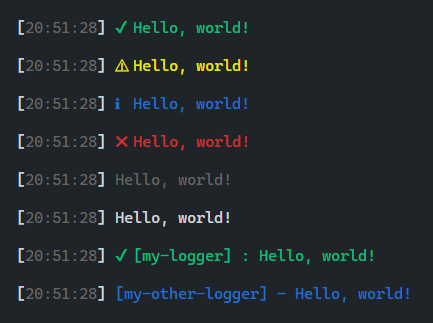
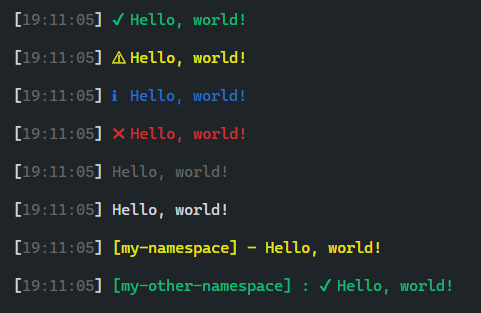
updated readme

diff --git a/example.js b/example.js
@@ -22,7 +22,7 @@ namespacedLogger.warn('Hello, world!\n');
 // ...or alternatively (with options)
 const { getLogger } = require('./index.js');
 const otherNamespacedLogger = getLogger({
-  prefix: 'my-logger',
+  prefix: 'my-other-namespace',
   icons: true,
   seperator: ':',
 });

diff --git a/README.md b/README.md
@@ -39,7 +39,7 @@ With namespace and custom configuration:
 ```js
 const { getLogger } = require('log-essentials');
 const otherNamespacedLogger = getLogger({
-  prefix: 'my-logger',
+  prefix: 'my-other-namespace',
   icons: true,
   seperator: ':',
 });
